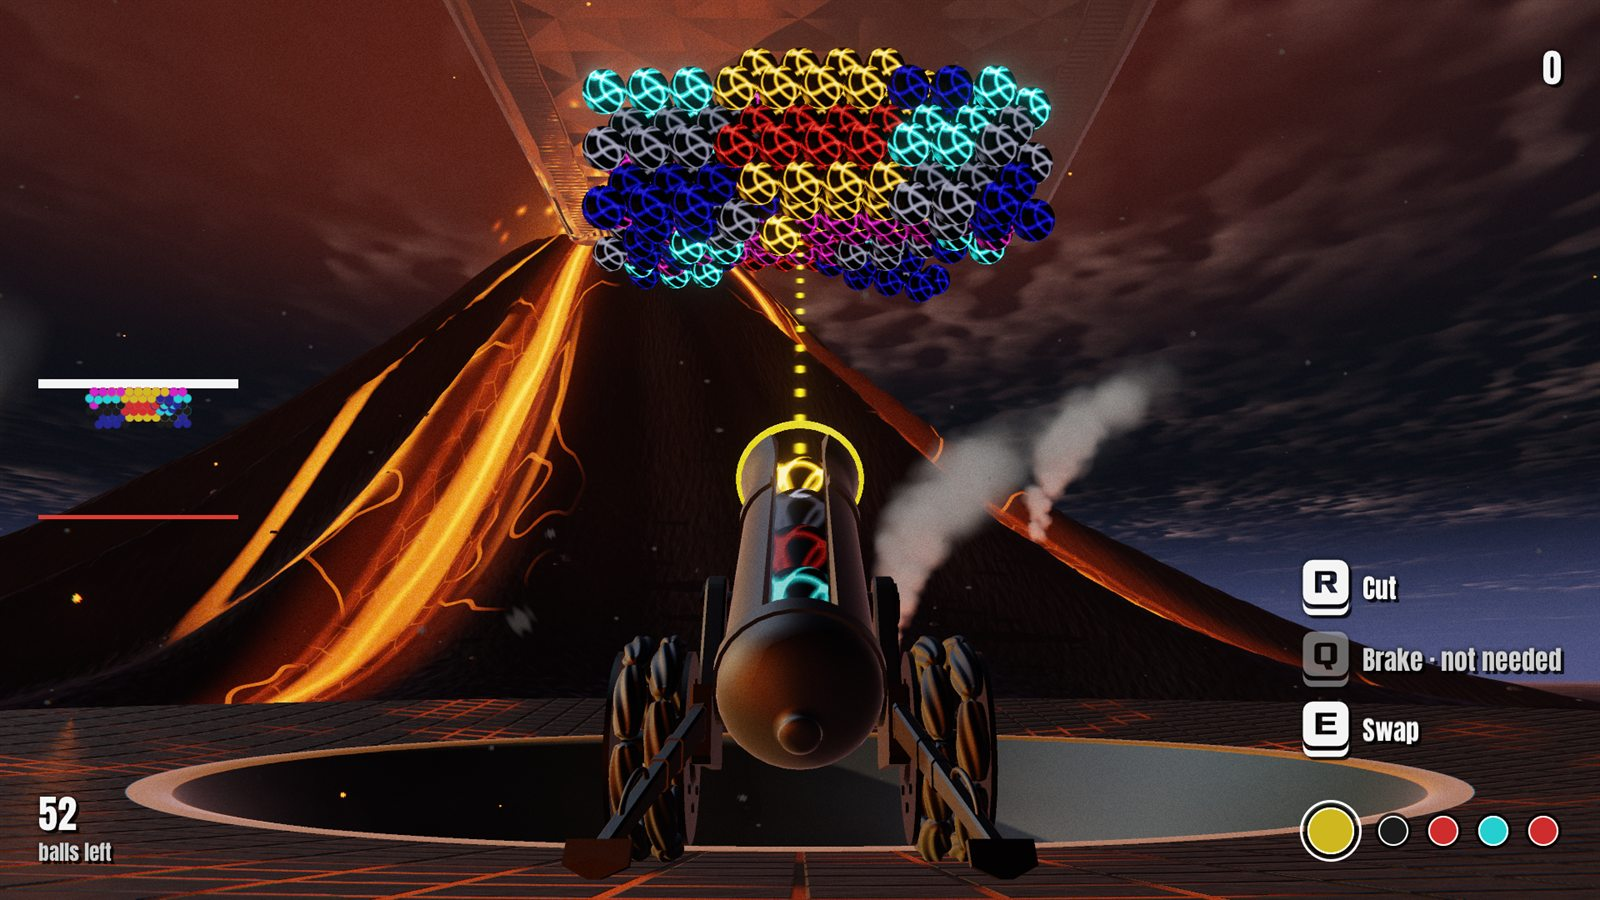
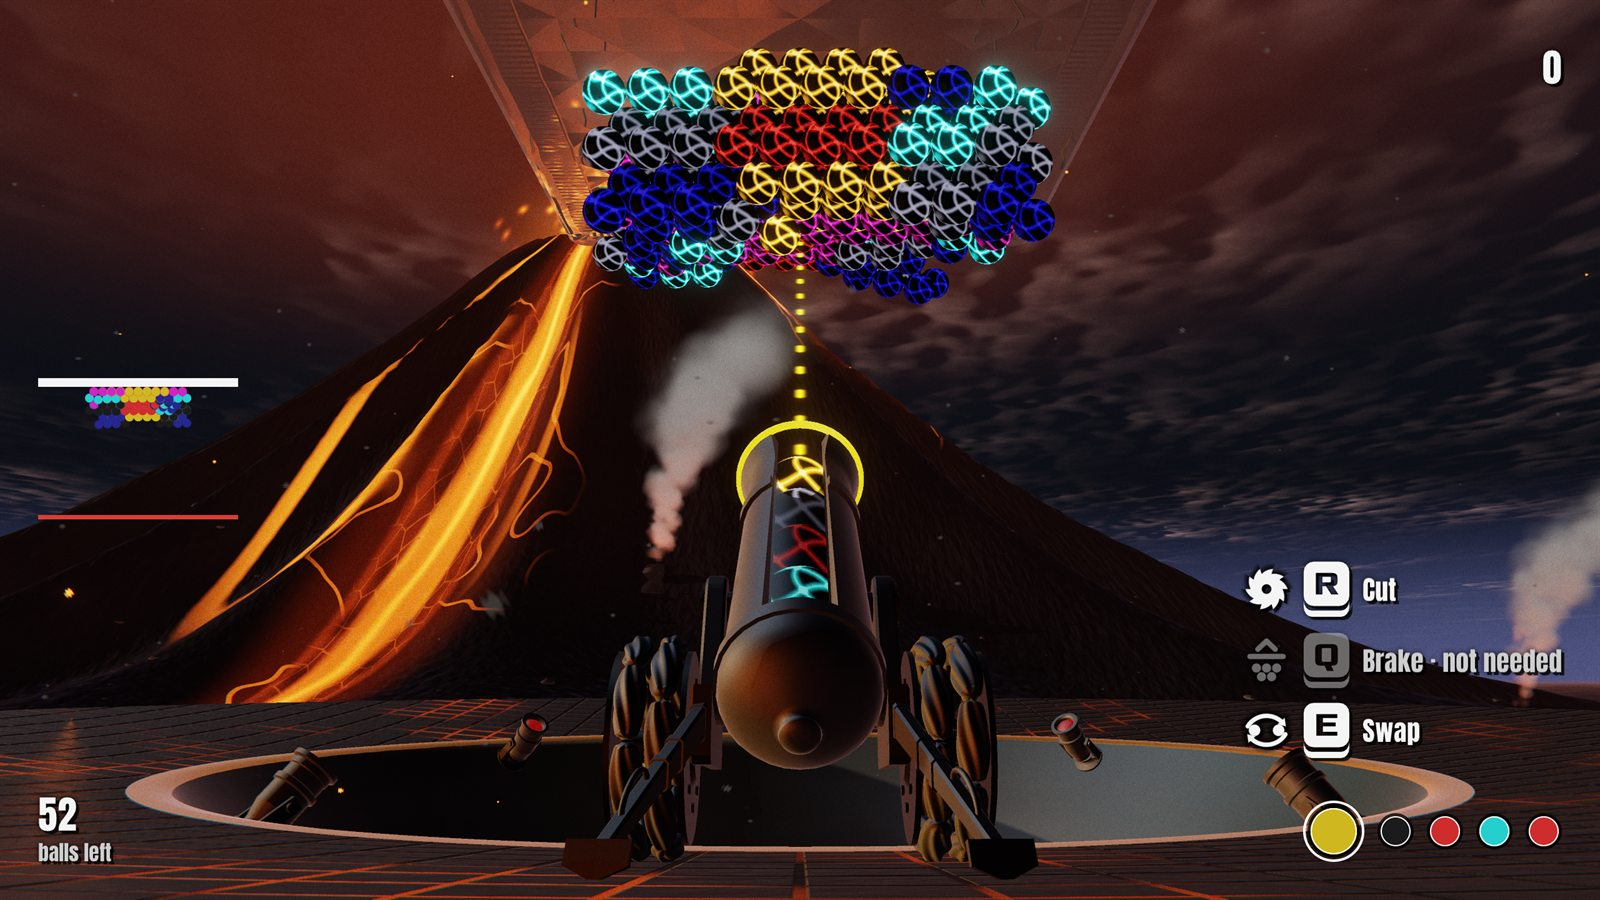
Website: the gallery retaken for v0.5.0, in a 16:9 window
The nine pictures (Meander and the gallery's eight) and the link preview
retaken from today's main: the rebuilt Aurora, the desert's pyramids, the
space base, the new big top and the power-up icons are in them now.

web-screenshots.ps1 ran fullscreen and cut 16:9 out of the middle, which on
the 3840x1600 desktop cut away the HUD (it is laid out to the window's
edges): no score, no balls left, no magazine, halved power-up icons. It now
runs the game in the largest 16:9 window the display holds (2560x1440 here).

diff --git a/docs/website.md b/docs/website.md
@@ -107,7 +107,7 @@ The file name is the address (`/blog/<file name>/`) and the first heading of the
 .\Tools\web-screenshots.ps1 -Levels Reel,Vortex
 ```
 
-It builds the Game in Release into a folder of its own and plays each level on a scratch profile whose settings turn the tutorial cards, the intro logo and the FPS counter off and hold High (so no first-time card covers the picture, nothing touches your save and nothing reaches the online boards). Each frame is cut to 16:9 round its centre and written to `Web/src/img/shots/<level>-1600.jpg` and `-800.jpg`. A level brings its own scene; the magazine's deal is pinned by `-Seed`. Look at every picture before committing it: a level that opens on a camera cinematic photographs the cinematic (Trefoil does).
+It builds the Game in Release into a folder of its own and plays each level on a scratch profile whose settings turn the tutorial cards, the intro logo and the FPS counter off and hold High (so no first-time card covers the picture, nothing touches your save and nothing reaches the online boards). The game runs in a **16:9 window** (the largest of 3840x2160, 2560x1440, 1920x1080 and 1600x900 the display's working area holds) and the frame is written to `Web/src/img/shots/<level>-1600.jpg` and `-800.jpg`. ⚠ Not fullscreen cut to 16:9: the HUD is laid out to the window's edges, so on the 3840x1600 desktop the crop lost the score, the balls left and the magazine and halved the power-up icons. A level brings its own scene; the magazine's deal is pinned by `-Seed`. Look at every picture before committing it: a level that opens on a camera cinematic photographs the cinematic (Trefoil does).
 
 The logo is `Images/logo/bs3d-logo-2048.png` scaled to 1000 and 600 px as WebP; the link-preview picture (`img/og-meander.jpg`, 1200×630) is Meander's frame cut to that shape.
 
